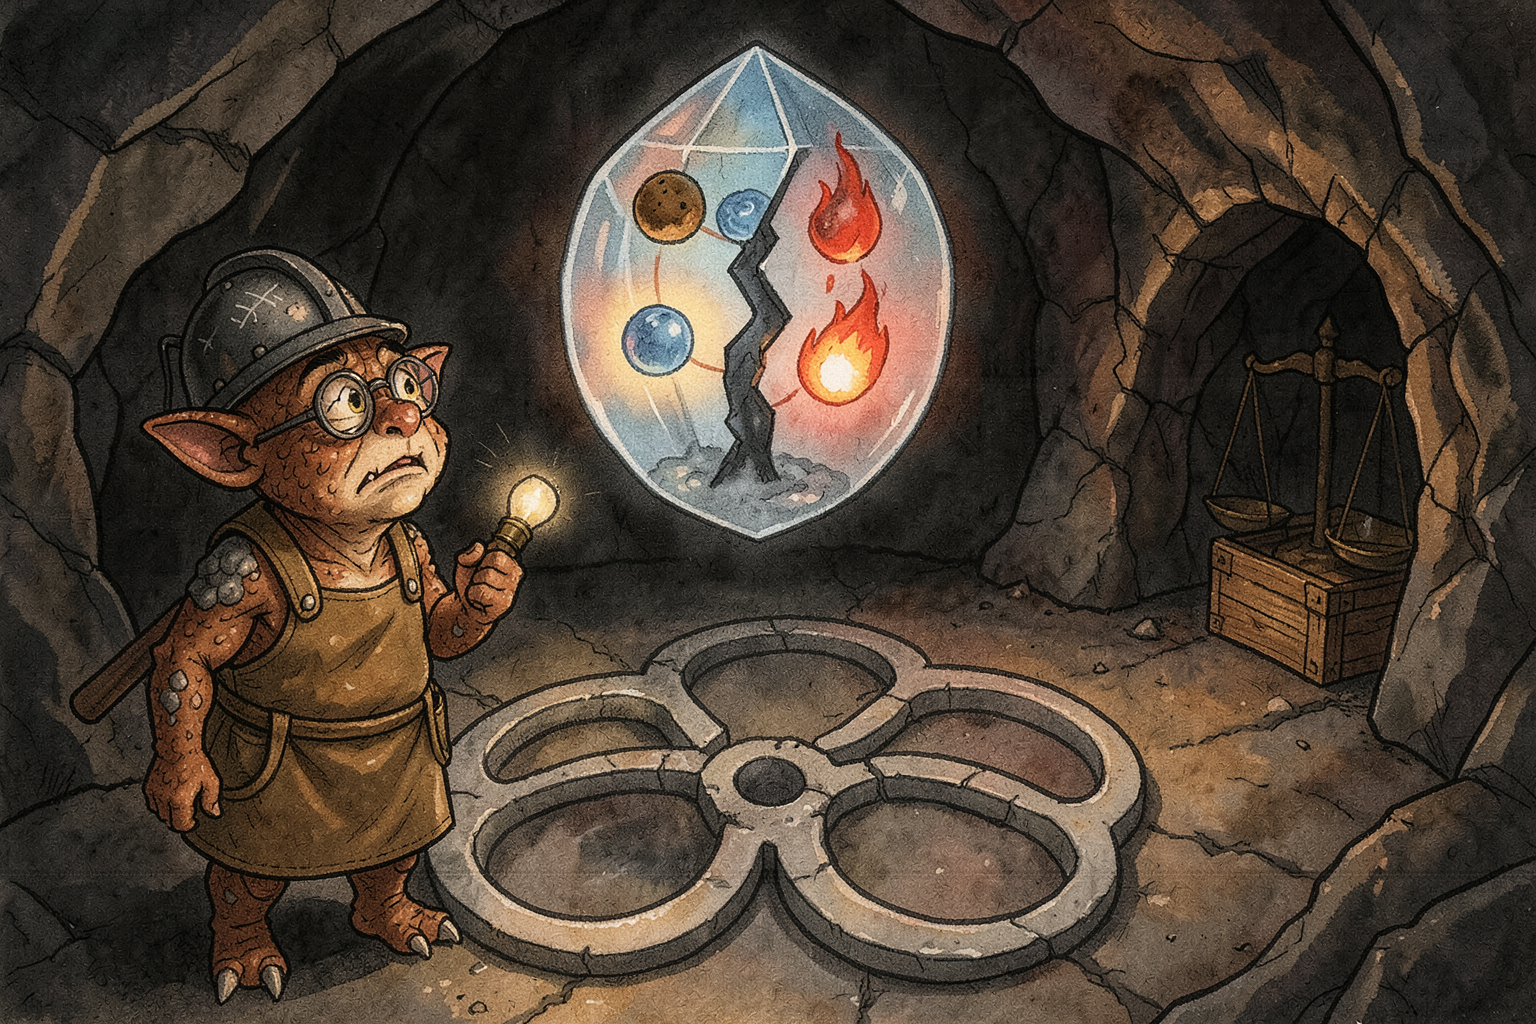
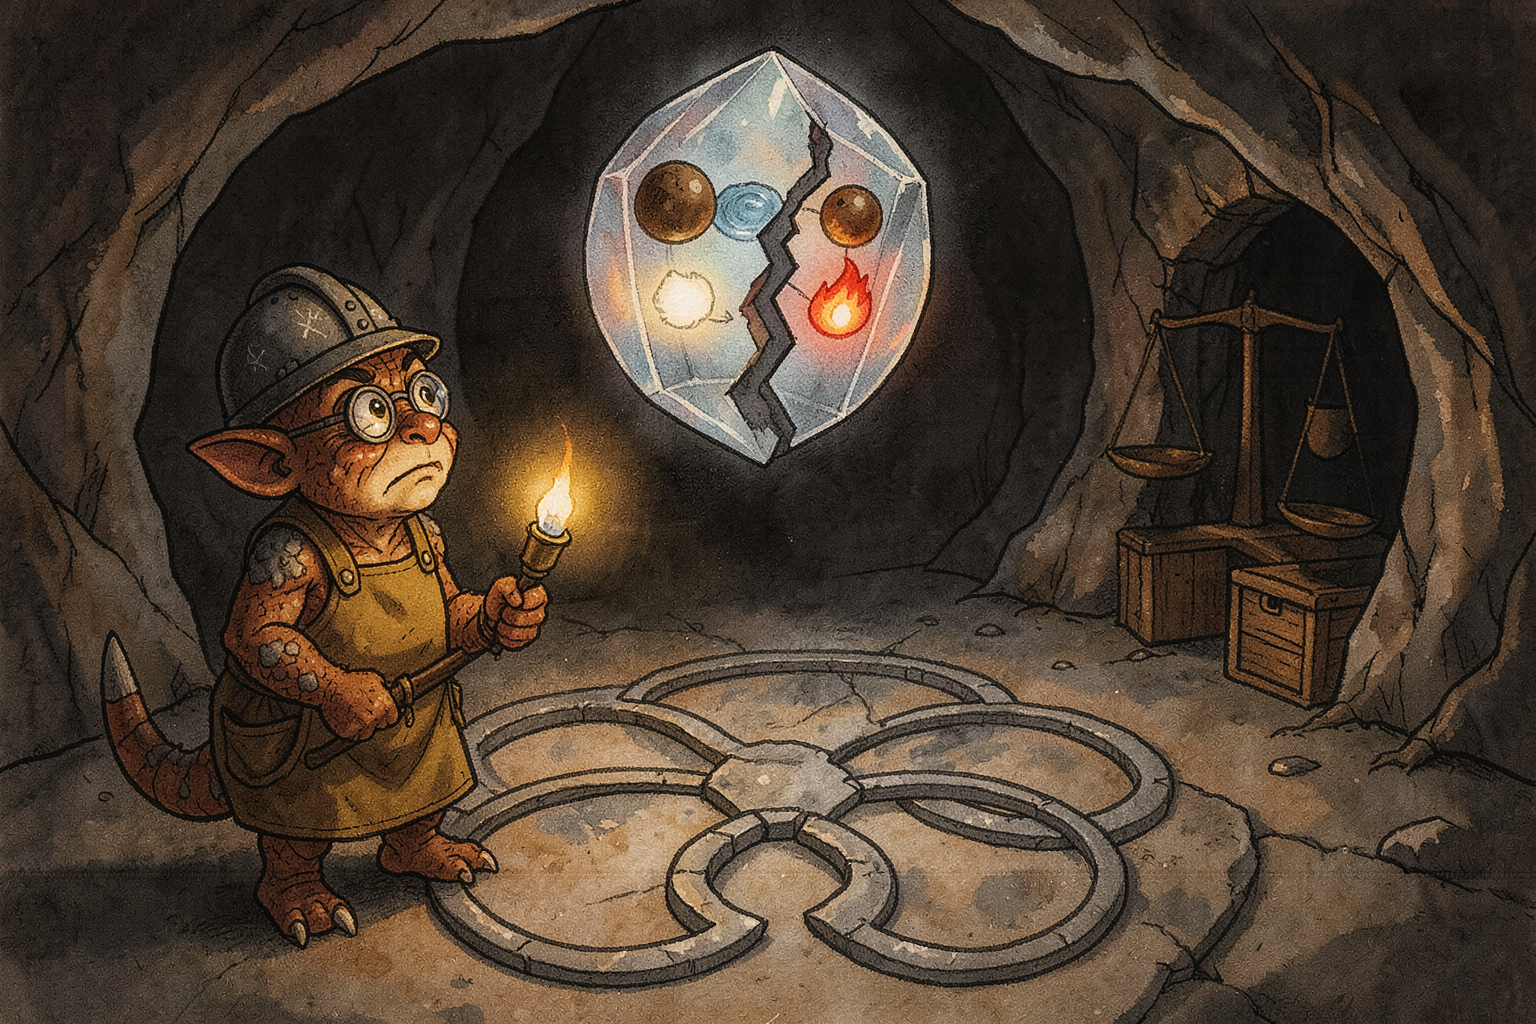
Bildprüfung: Perle 5 neu erzeugt

diff --git a/docs/art/szenen/perle-5/README.md b/docs/art/szenen/perle-5/README.md
@@ -143,3 +143,11 @@ Alle mit `tools/erzeuge-szene.ps1`, FLUX.2 klein 4B, je 6 Seeds. Übersicht: `ue
 |---|---|
 | `szene-wiedersehen-botenlaeufer` | Bildbearbeitung Seed 3: linke Gesichtshälfte klar grau mit Kante |
 | `szene-wiedersehen-schausteller` | Bildbearbeitung Seed 3: linke Gesichtshälfte klar grau mit Kante |
+
+| `szene-herz-des-berges` | neu, Seed 1: Ringe als Kleeblatt mit freier Mitte, Öllampe statt Glühbirne, runde Kugel. Im Kristall fünf statt vier Lichter (zweimal Braun) |
+| `szene-der-schlund` | neu, Seed 6: schwarzer Abgrund direkt vor dem Betrachter, Wasser tief unten |
+| `entdeckung-orin-treidelpfad` | neu, Seed 1: Maultiere ohne Helm laufen weg und ziehen, Kobolde nur in den Kähnen |
+| `szene-flucht-tiefe-stiege` | neu, Seed 3: Seitentunnel links, Kobold winkt besorgt. Das Grau auf den unteren Stufen fehlt |
+| `szene-neumond-glimmhalde` | neu, Seed 3: Kobold klein am Rand, keine überzähligen Gliedmaßen. Statt eines senkrechten Schachts weiter eine Öffnung zum Sternenhimmel (alle Seeds) |
+| `szene-tiefe-stiege` | neu, Seed 3: Blick hinab, Kobold mit Rücken zum Betrachter, Lampe in der erhobenen Hand (dreht den Kopf kaum) |
+| `szene-vermisste-kobolde` | neu, Seed 3: sechs deutlich graue Kobolde (statt sieben) |
